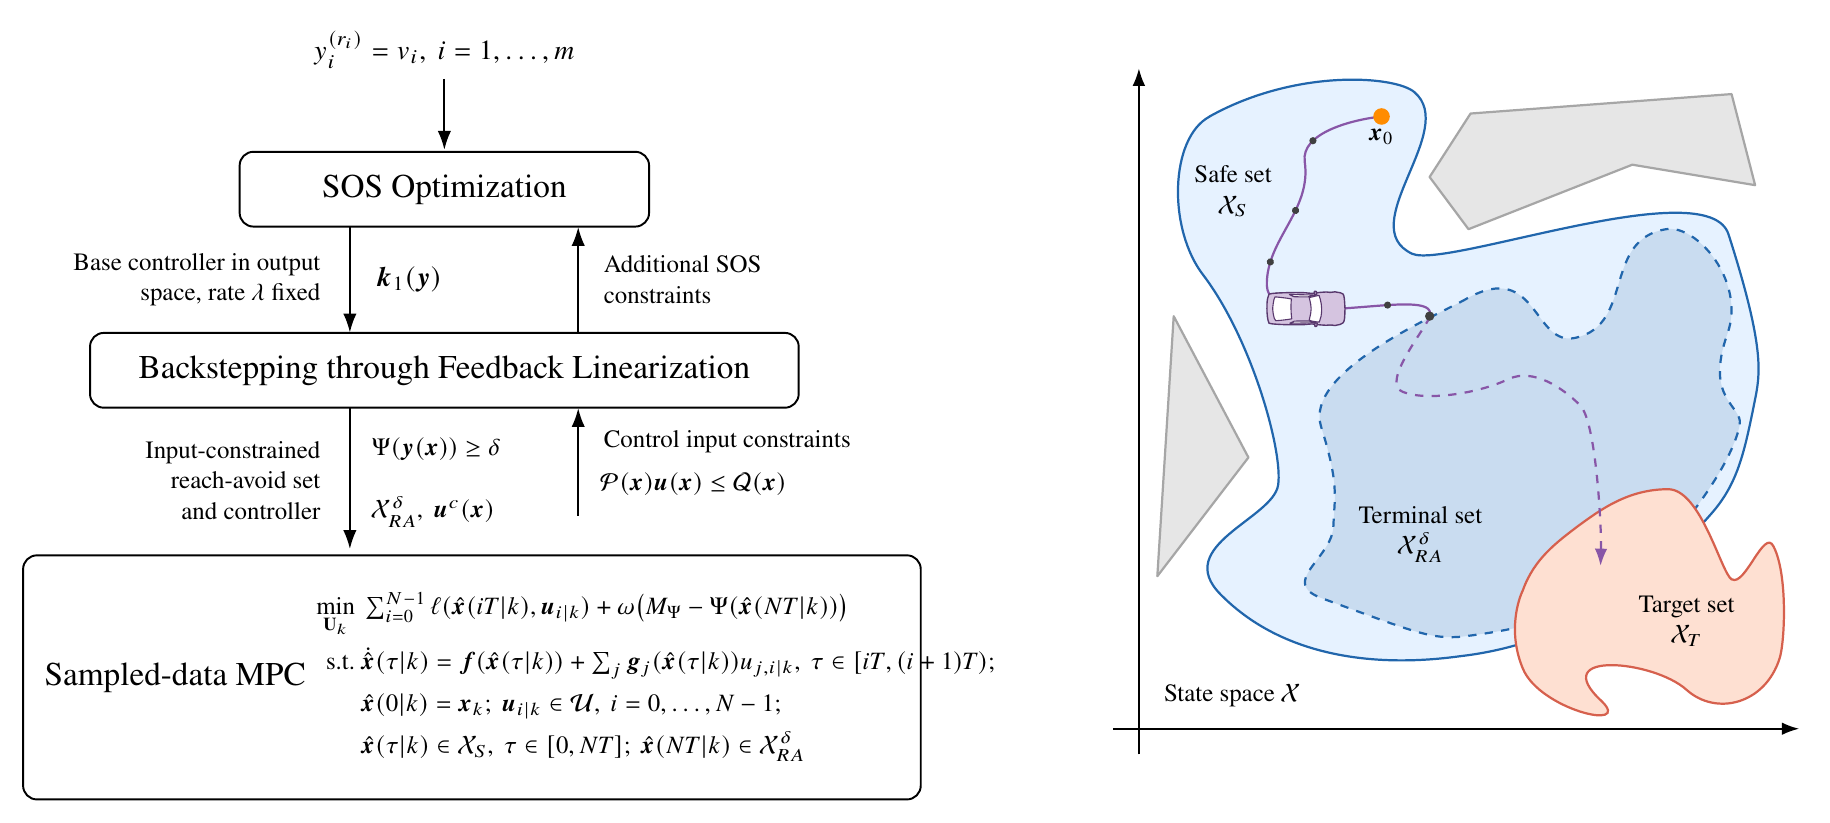
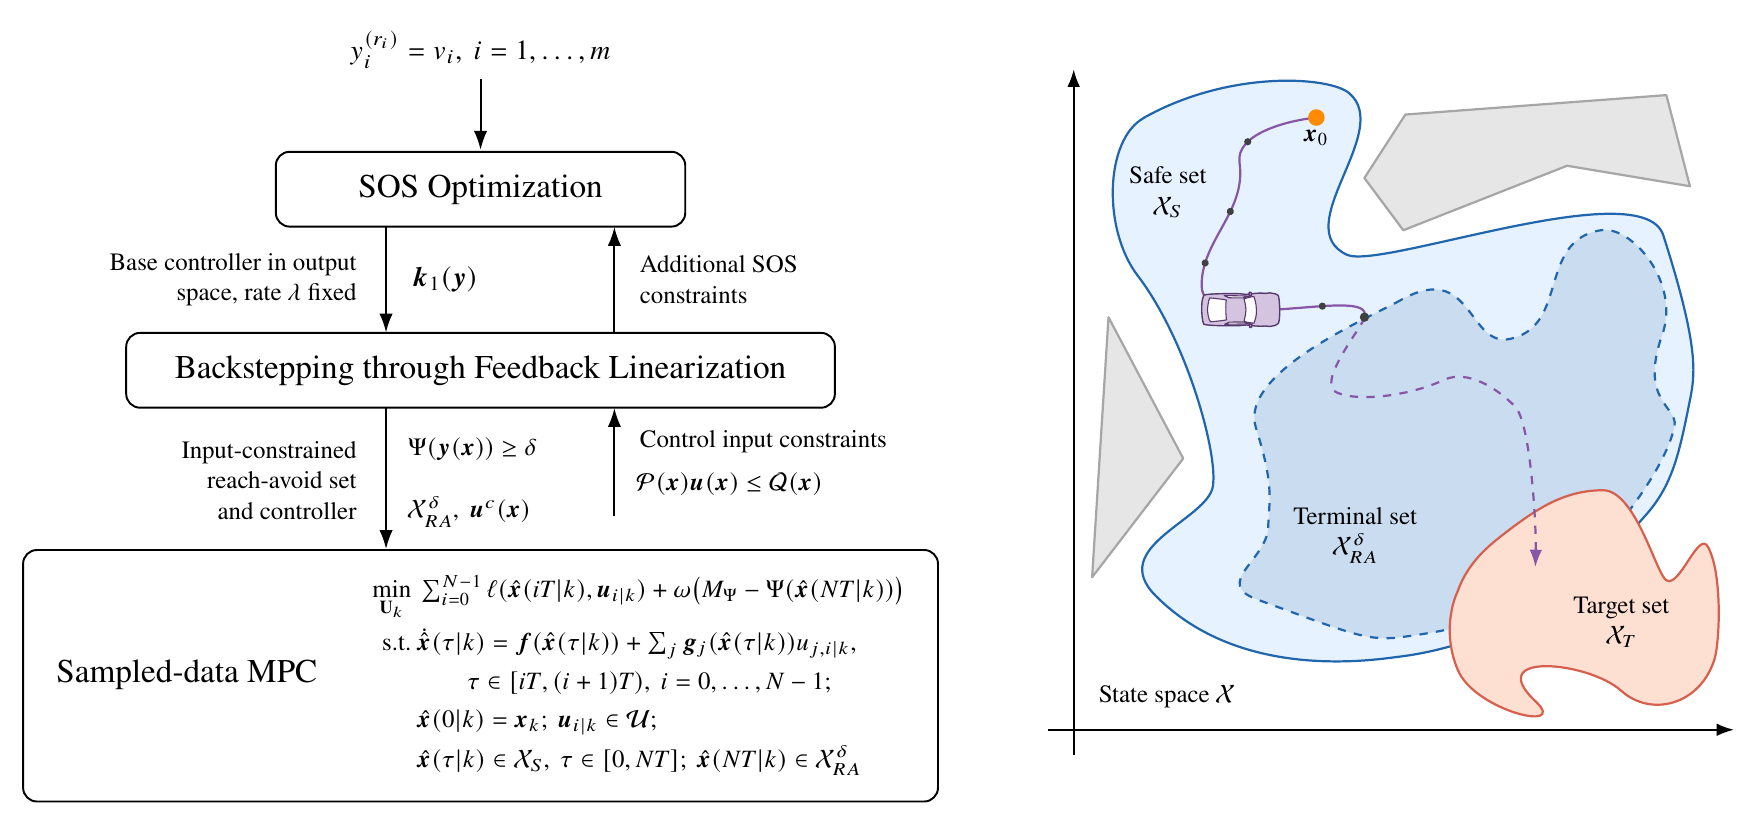
README figure: fit the MPC box to its formula
The box of the sampled-data MPC had a fixed width and the dynamics line ran
past its border. The box now takes the width of its content, and the time
interval of the dynamics constraint moves to its own line.

diff --git a/docs/readme_figure/readme_figure.tex b/docs/readme_figure/readme_figure.tex
@@ -37,17 +37,19 @@
     \draw[arr] (1.7,3.9) -- (1.7,5.27);
     \node[notel] at (1.9,4.85) {Control input constraints};
     \node[notel] at (1.85,4.3) {$\mathcal{P}(\bm{x})\bm{u}(\bm{x}) \leq \mathcal{Q}(\bm{x})$};
-    % sampled-data MPC
-    \node[blk, minimum width=11.4cm, minimum height=3.1cm] (mpc) at (0.35,1.85) {};
-    \node[font=\large, anchor=west] at (-5.2,1.85) {Sampled-data MPC};
-    \node[anchor=west, font=\small] at (-1.75,1.85) {$\begin{aligned}
-        \min_{\mathbf{U}_k} \ & \textstyle\sum_{i=0}^{N-1} \ell(\hat{\bm{x}}(iT|k), \bm{u}_{i|k})
-            + \omega\big(M_\Psi - \Psi(\hat{\bm{x}}(NT|k))\big) \\
-        \text{s.t.} \ & \dot{\hat{\bm{x}}}(\tau|k) = \bm{f}(\hat{\bm{x}}(\tau|k))
-            + \textstyle\sum_{j} \bm{g}_j(\hat{\bm{x}}(\tau|k)) u_{j,i|k}, \ \tau \in [iT, (i+1)T); \\
-        & \hat{\bm{x}}(0|k) = \bm{x}_k; \ \bm{u}_{i|k} \in \mathcal{U}, \ i = 0, \dots, N-1; \\
-        & \hat{\bm{x}}(\tau|k) \in \mathcal{X}_S, \ \tau \in [0, NT]; \ \hat{\bm{x}}(NT|k) \in \mathcal{X}_{RA}^{\delta}
-    \end{aligned}$};
+    % sampled-data MPC: the box takes the width of its content
+    \node[blk, anchor=north, inner xsep=12pt, inner ysep=9pt] (mpc) at (0,3.48) {%
+        \begin{tabular}{@{}l@{\hspace{7mm}}l@{}}
+        Sampled-data MPC & \small $\begin{aligned}
+            \min_{\mathbf{U}_k} \ & \textstyle\sum_{i=0}^{N-1} \ell(\hat{\bm{x}}(iT|k), \bm{u}_{i|k})
+                + \omega\big(M_\Psi - \Psi(\hat{\bm{x}}(NT|k))\big) \\
+            \text{s.t.} \ & \dot{\hat{\bm{x}}}(\tau|k) = \bm{f}(\hat{\bm{x}}(\tau|k))
+                + \textstyle\sum_{j} \bm{g}_j(\hat{\bm{x}}(\tau|k)) u_{j,i|k}, \\
+            & \qquad \tau \in [iT, (i+1)T), \ i = 0, \dots, N-1; \\
+            & \hat{\bm{x}}(0|k) = \bm{x}_k; \ \bm{u}_{i|k} \in \mathcal{U}; \\
+            & \hat{\bm{x}}(\tau|k) \in \mathcal{X}_S, \ \tau \in [0, NT]; \ \hat{\bm{x}}(NT|k) \in \mathcal{X}_{RA}^{\delta}
+        \end{aligned}$
+        \end{tabular}};
 \end{tikzpicture}\hspace{1.2cm}%
 \input{pipeline.tikz}
 \end{document}
